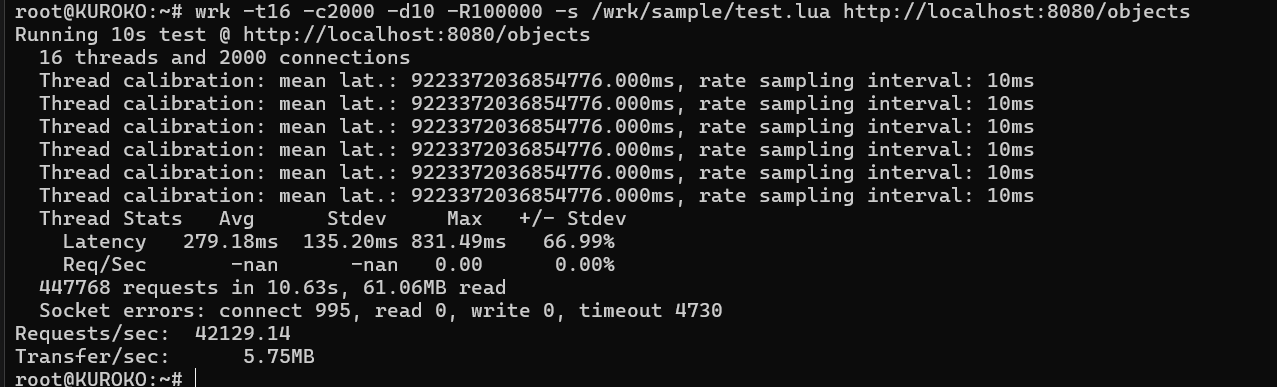
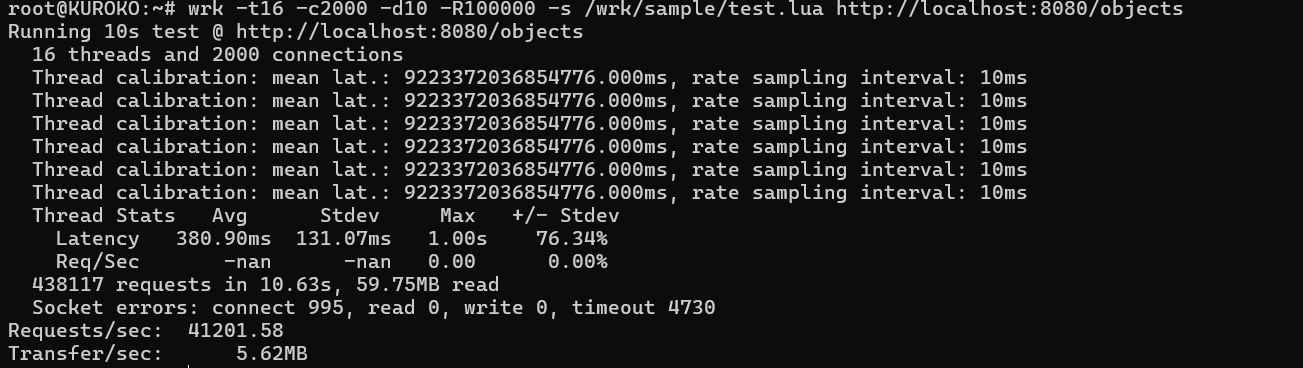
41k req/s

Changed region(s): [[0.0, 0.0, 0.9468, 1.0]]

diff --git a/fasthttp/main.go b/fasthttp/main.go
@@ -34,8 +34,9 @@ func main() {
 
 	// Set up fasthttp server
 	server := &fasthttp.Server{
-		Handler: requestHandler,
-		Name:    "FastHTTP Server",
+		Handler:     requestHandler,
+		Concurrency: 3000,
+		Name:        "FastHTTP Server",
 	}
 
 	// Start the server
